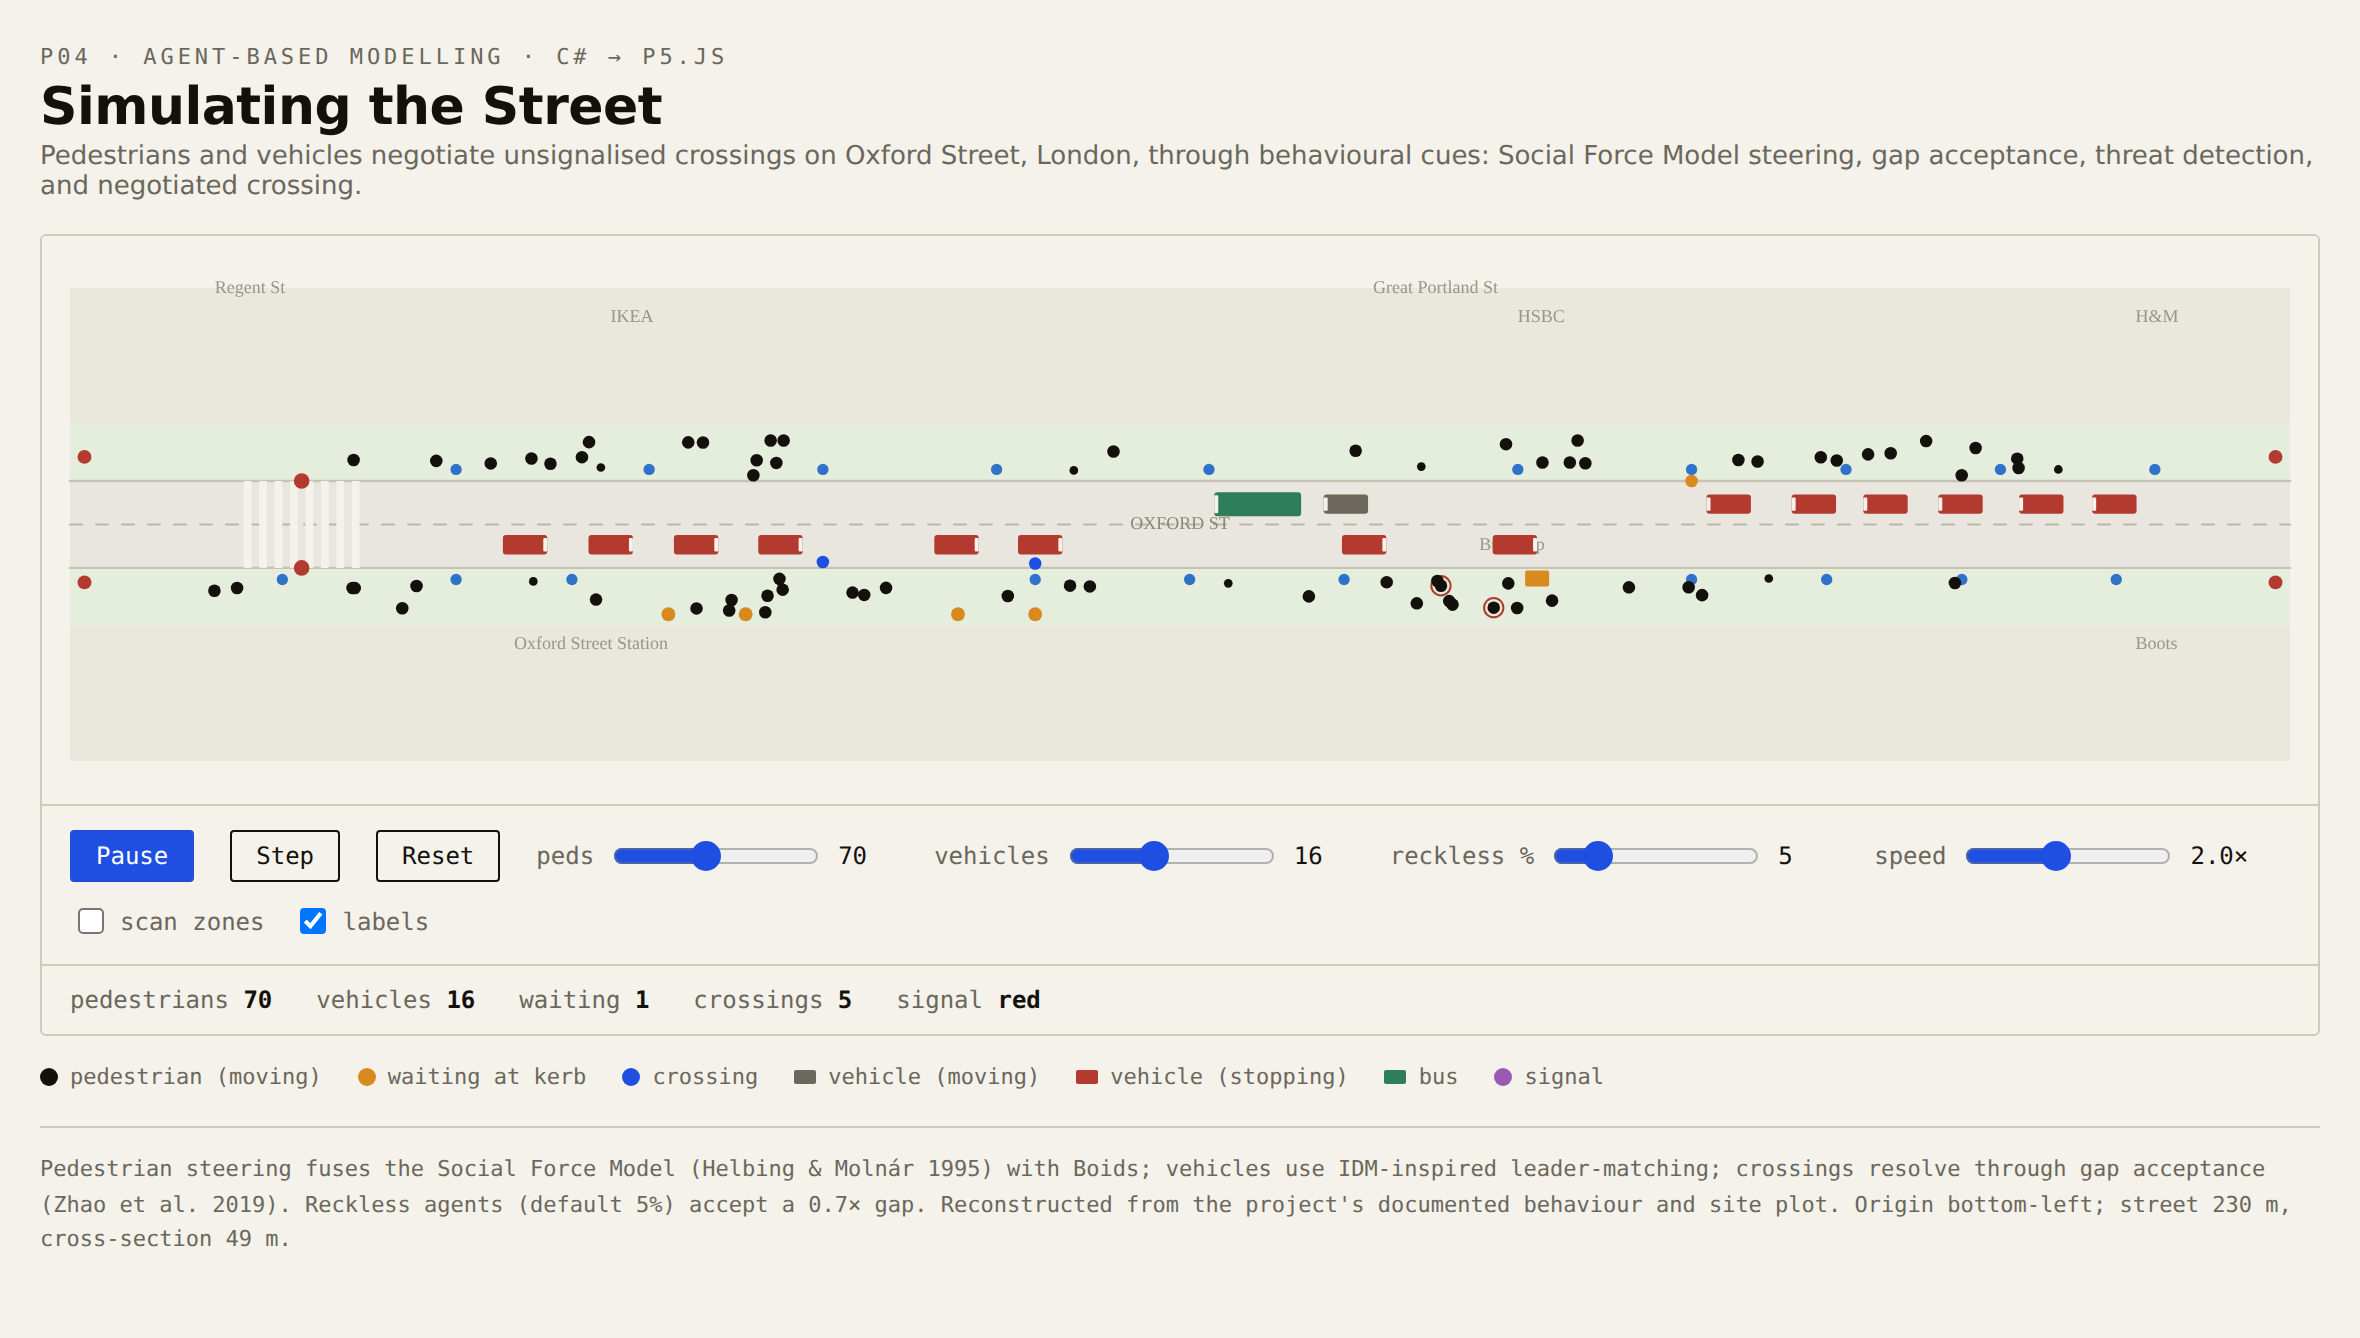
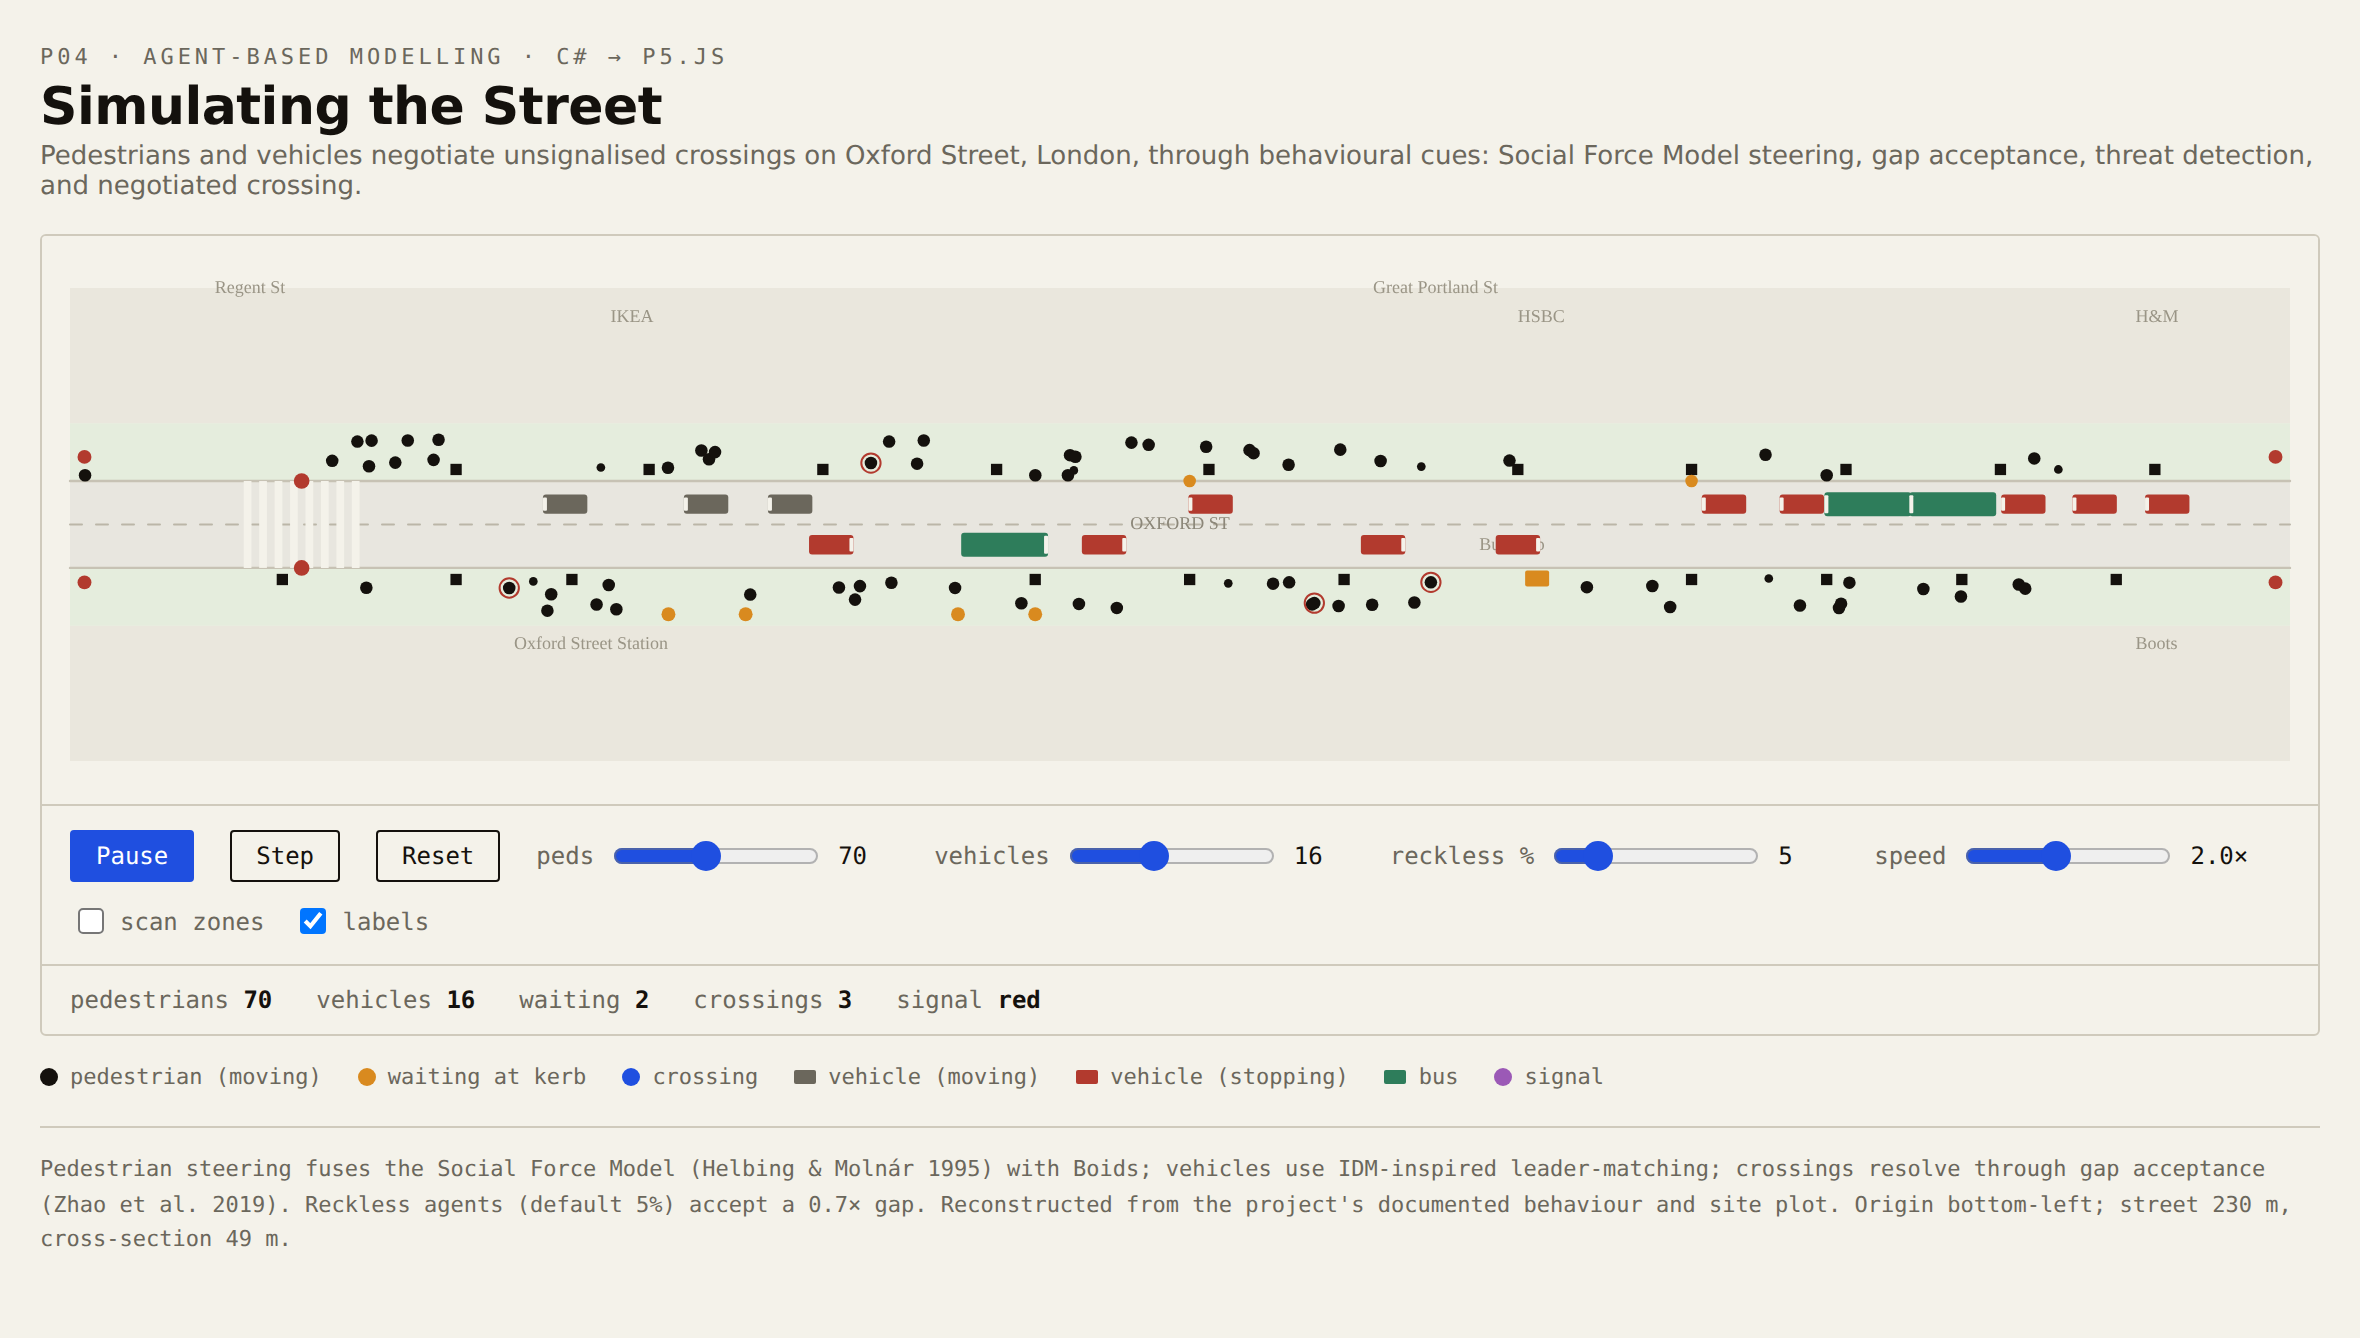
Draw shop markers as black squares to distinguish them from crossing pedestrians
The shop and destination markers were blue circles, easily confused with
pedestrians in the crossing state, which are also blue circles. Draw them
as black squares instead and update the README screenshot.

diff --git a/index.html b/index.html
@@ -409,7 +409,7 @@ function drawSite(){
   for(let zx=SITE.zebraX[0];zx<SITE.zebraX[1];zx+=1.6){ rectM(zx,zx+0.8,SOUTH_KERB,NORTH_KERB,'#F4F2EA'); }
   // markers
   SITE.obstacles.forEach(o=>marker(o,'#14110D',1.0));
-  SITE.shopsS.concat(SITE.shopsN).forEach(s=>marker(s,'#2E73C9',1.3));
+  SITE.shopsS.concat(SITE.shopsN).forEach(s=>squareMarker(s,'#14110D',1.3));
   SITE.stationExits.forEach(s=>marker(s,'#D98A1F',1.6));
   SITE.stationEnts.forEach(s=>marker(s,'#D98A1F',1.6));
   SITE.endsS.concat(SITE.endsN).forEach(s=>marker(s,'#B23A2E',1.6));
@@ -420,6 +420,7 @@ function drawSite(){
   if(showLabels) labels();
 }
 function marker(p,col,rm){ noStroke(); fill(col); circle(X(p.x),Y(p.y),rm*ppm*0.9); }
+function squareMarker(p,col,rm){ noStroke(); fill(col); const s=rm*ppm*0.9; rect(X(p.x)-s/2,Y(p.y)-s/2,s,s); }
 function labels(){
   noStroke(); fill('#9A9586'); textFont('IBM Plex Mono'); textSize(9);
   textAlign(LEFT,BOTTOM);

diff --git a/simulating-the-street.html b/simulating-the-street.html
@@ -409,7 +409,7 @@ function drawSite(){
   for(let zx=SITE.zebraX[0];zx<SITE.zebraX[1];zx+=1.6){ rectM(zx,zx+0.8,SOUTH_KERB,NORTH_KERB,'#F4F2EA'); }
   // markers
   SITE.obstacles.forEach(o=>marker(o,'#14110D',1.0));
-  SITE.shopsS.concat(SITE.shopsN).forEach(s=>marker(s,'#2E73C9',1.3));
+  SITE.shopsS.concat(SITE.shopsN).forEach(s=>squareMarker(s,'#14110D',1.3));
   SITE.stationExits.forEach(s=>marker(s,'#D98A1F',1.6));
   SITE.stationEnts.forEach(s=>marker(s,'#D98A1F',1.6));
   SITE.endsS.concat(SITE.endsN).forEach(s=>marker(s,'#B23A2E',1.6));
@@ -420,6 +420,7 @@ function drawSite(){
   if(showLabels) labels();
 }
 function marker(p,col,rm){ noStroke(); fill(col); circle(X(p.x),Y(p.y),rm*ppm*0.9); }
+function squareMarker(p,col,rm){ noStroke(); fill(col); const s=rm*ppm*0.9; rect(X(p.x)-s/2,Y(p.y)-s/2,s,s); }
 function labels(){
   noStroke(); fill('#9A9586'); textFont('IBM Plex Mono'); textSize(9);
   textAlign(LEFT,BOTTOM);